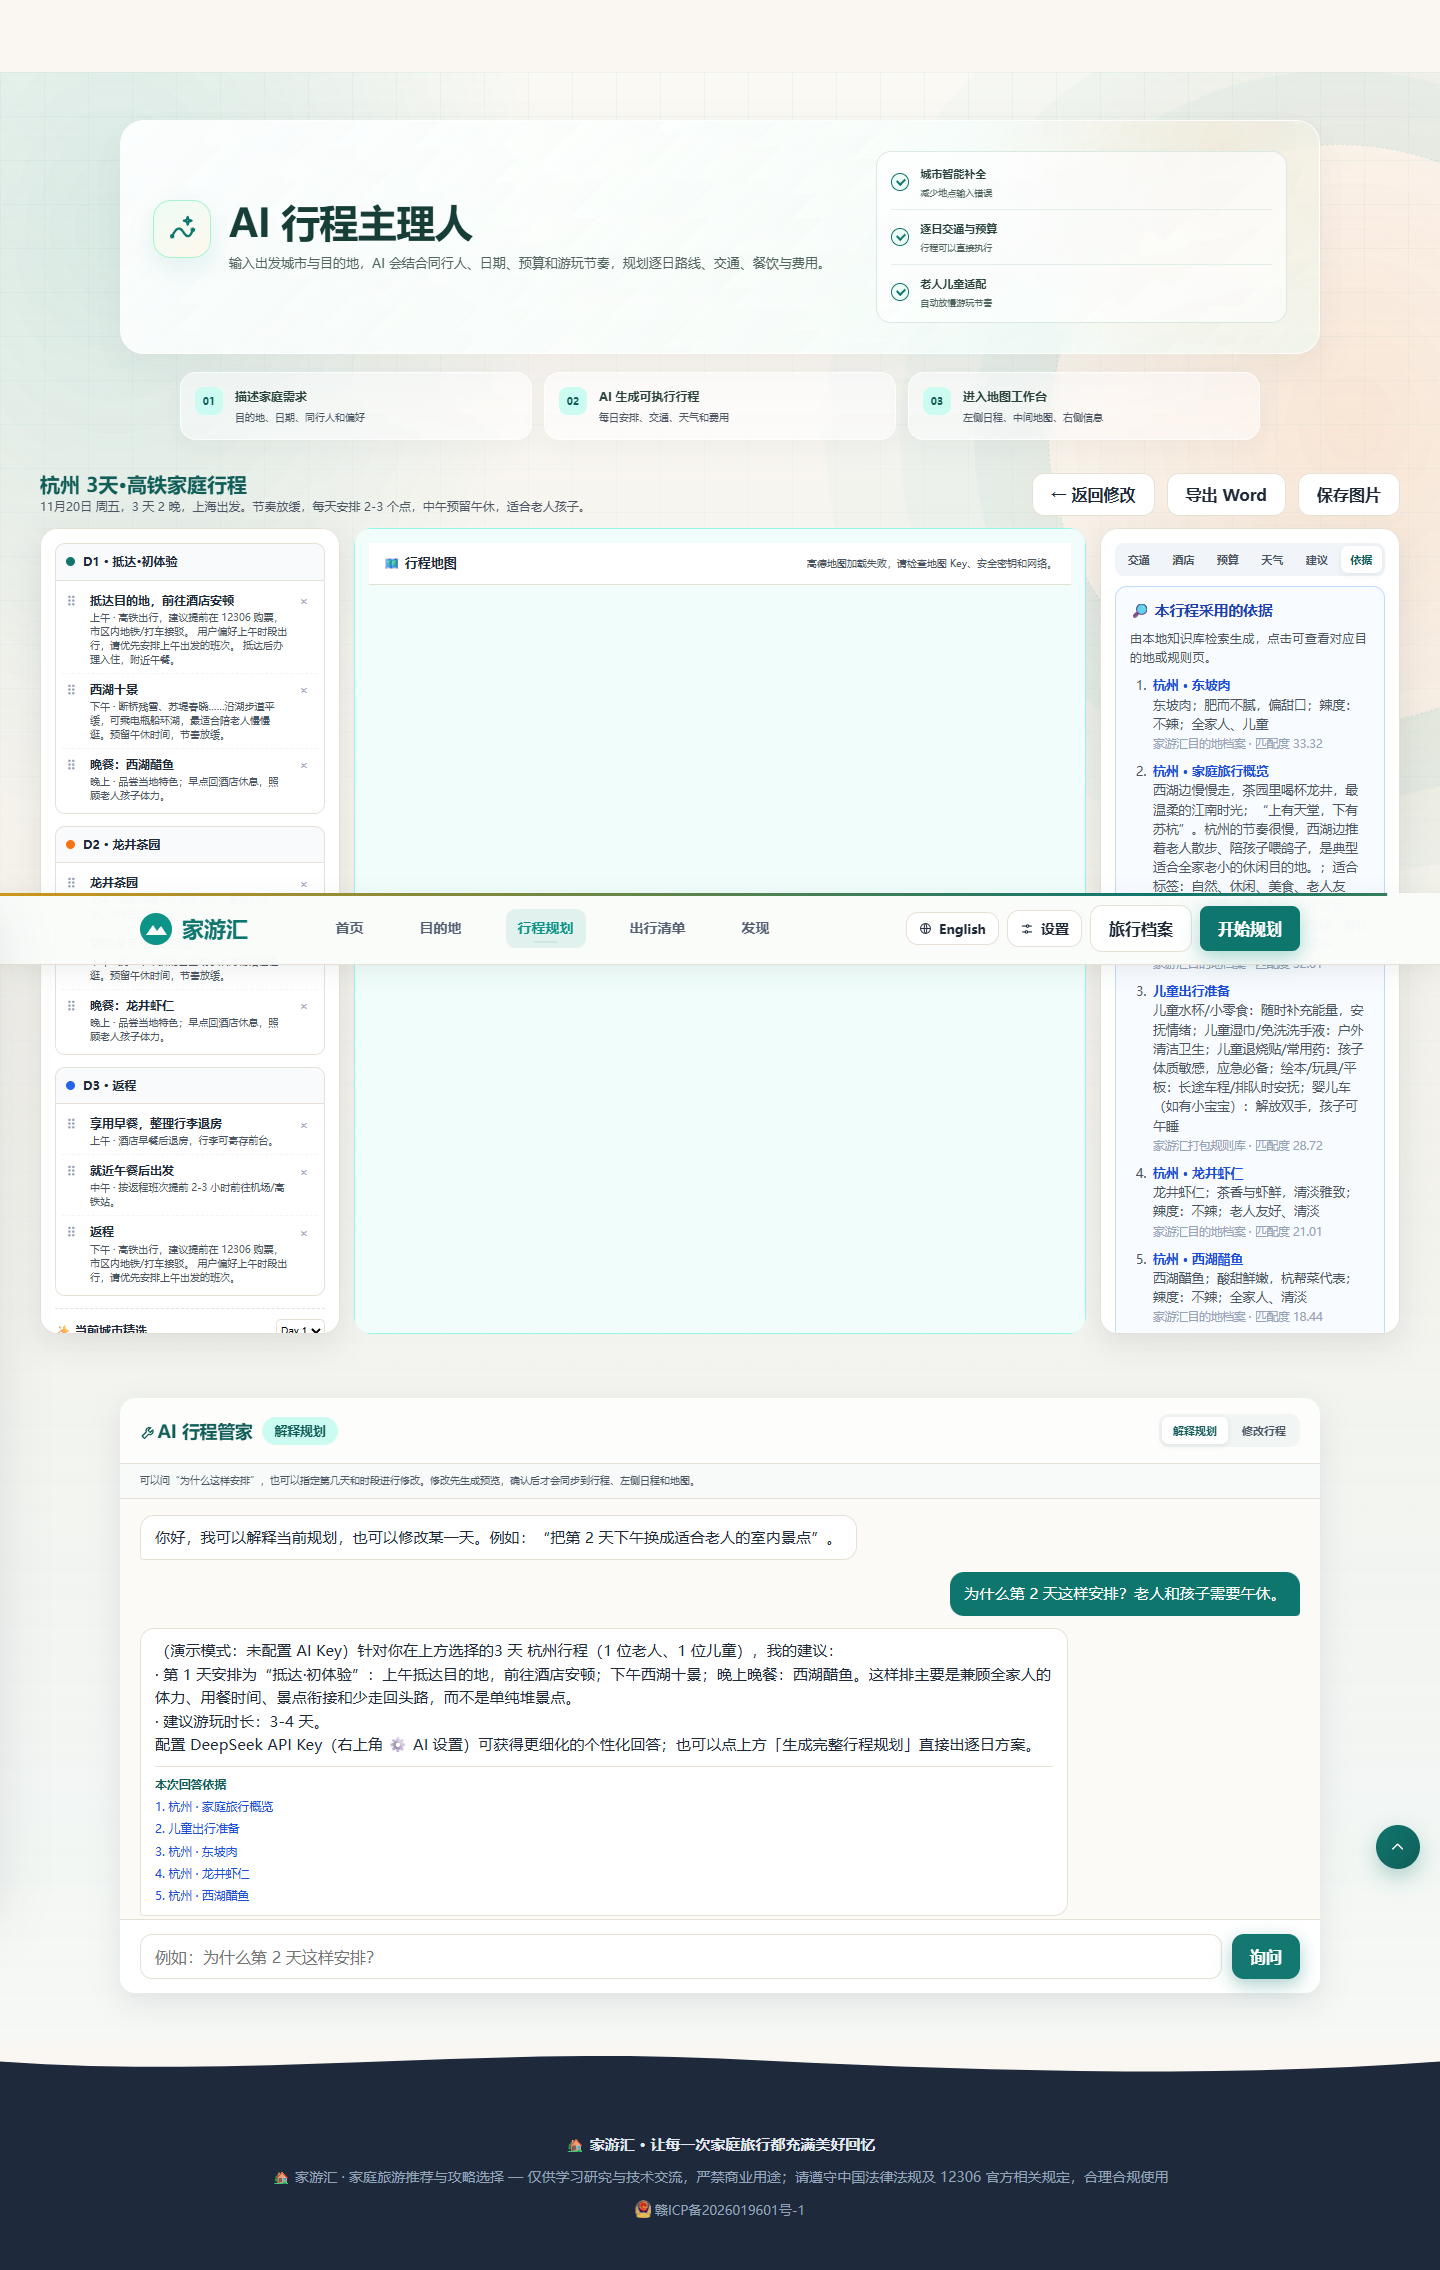
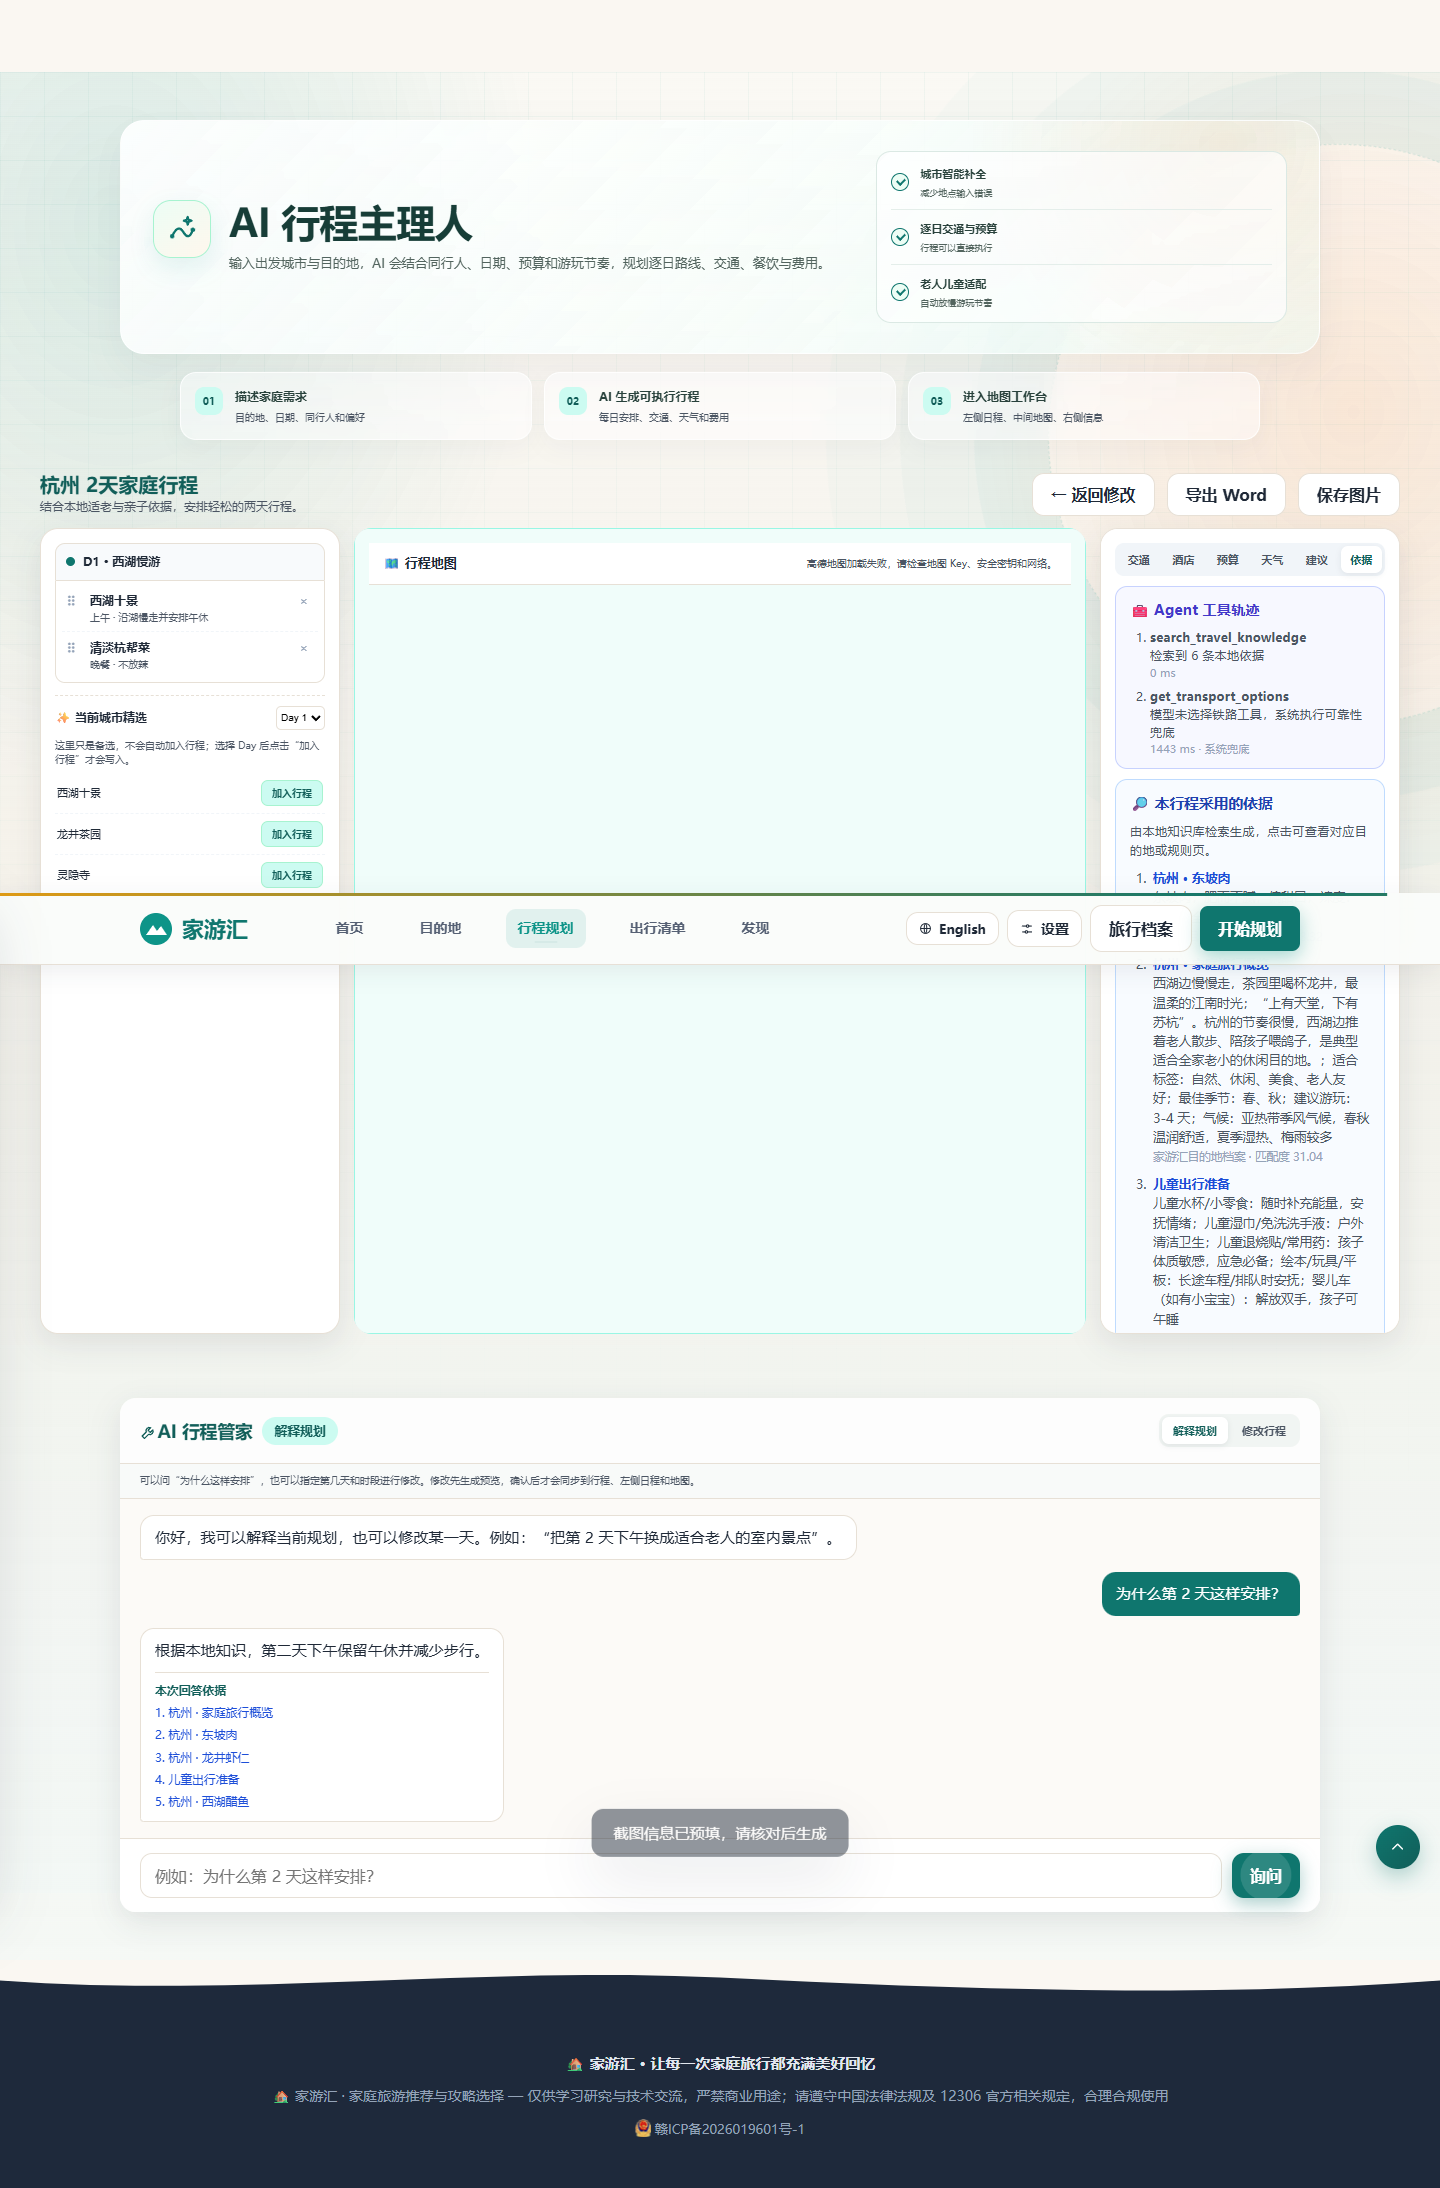
test: harden deployment and final QA

diff --git a/server.js b/server.js
@@ -10,7 +10,6 @@ const zlib = require('zlib');
 const crypto = require('crypto');
 const fs = require('fs');
 const path = require('path');
-const url = require('url');
 const ai = require('./lib/ai');
 const rec = require('./lib/recommend');
 const planner = require('./lib/planner');
@@ -604,12 +603,12 @@ async function handleApi(req, res, pathname) {
   // GET /api/rag/search —— 本地知识检索与可点击依据（用于调试和评委核验）
   if (pathname === '/api/rag/search' && req.method === 'GET') {
     if (!allowCheap(req)) return sendJson(res, 429, { error: MSG(reqLang(req)).rateLimited });
-    const q = url.parse(req.url, true).query;
-    const query = String(q.q || '').trim();
+    const q = new URL(req.url, 'http://localhost').searchParams;
+    const query = String(q.get('q') || '').trim();
     if (!query) return sendJson(res, 400, { error: reqLang(req) === 'en' ? 'Please enter a search query' : '请输入检索内容' });
     const citations = rag.publicCitations(rag.retrieve(query, {
-      destinationId: String(q.destinationId || '').trim(),
-      limit: Number(q.limit) || 6
+      destinationId: String(q.get('destinationId') || '').trim(),
+      limit: Number(q.get('limit')) || 6
     }));
     return sendJson(res, 200, {
       query,
@@ -642,8 +641,8 @@ async function handleApi(req, res, pathname) {
 
   // GET /api/travel-search?q=xxx —— 本地无结果时使用 Tavily 免费额度补充全网文旅文章
   if (pathname === '/api/travel-search' && req.method === 'GET') {
-    const q = url.parse(req.url, true).query;
-    const keyword = String(q.q || '').trim();
+    const q = new URL(req.url, 'http://localhost').searchParams;
+    const keyword = String(q.get('q') || '').trim();
     if (!keyword) return sendJson(res, 400, { enabled: travelSearch.isEnabled(), error: reqLang(req) === 'en' ? 'Please enter a search keyword' : '请输入搜索关键词' });
     if (!allowTravelSearch(req)) {
       return sendJson(res, 429, { enabled: travelSearch.isEnabled(), error: reqLang(req) === 'en' ? 'Too many web searches — please try again later' : '免费全网搜索次数过多，请稍后再试' });
@@ -804,7 +803,11 @@ async function handleApi(req, res, pathname) {
           const data = await trainPromise;
           return {
             summary: `已获取 ${(data && data.outbound || []).length} 趟去程和 ${(data && data.inbound || []).length} 趟返程参考车次`,
-            rail: data
+            rail: data ? {
+              outbound: (data.outbound || []).slice(0, 6),
+              inbound: (data.inbound || []).slice(0, 6),
+              display: data.display
+            } : null
           };
         }
         if (name === 'get_weather_forecast') {
@@ -1044,8 +1047,8 @@ async function handleApi(req, res, pathname) {
   // GET /api/job?id=xxx —— 轮询后台任务结果（仅提交者本人可读；重启后仍可从落盘结果取回）
   if (pathname === '/api/job' && req.method === 'GET') {
     if (!allowCheap(req)) return sendJson(res, 429, { error: MSG(reqLang(req)).rateLimited });
-    const q = url.parse(req.url, true).query;
-    const id = String(q.id || '');
+    const q = new URL(req.url, 'http://localhost').searchParams;
+    const id = String(q.get('id') || '');
     const job = jobs.get(id) || loadJobFromDisk(id);
     if (!job || (job.owner && job.owner !== clientIp(req))) return sendJson(res, 404, { error: MSG(reqLang(req)).jobGone });
     return sendJson(res, 200, { jobId: id, status: job.status, result: job.result || null, error: job.error || null, progress: job.progress || null });
@@ -1054,8 +1057,8 @@ async function handleApi(req, res, pathname) {
   // GET /api/weather?id=xxx —— 目的地未来 15 天天气预报（出网接口，单独限流）
   if (pathname === '/api/weather' && req.method === 'GET') {
     if (!allowOutbound(req)) return sendJson(res, 429, { error: MSG(reqLang(req)).rateLimited });
-    const q = url.parse(req.url, true).query;
-    const dest = destinations.find((d) => d.id === String(q.id || ''));
+    const q = new URL(req.url, 'http://localhost').searchParams;
+    const dest = destinations.find((d) => d.id === String(q.get('id') || ''));
     if (!dest || !dest.lat) return sendJson(res, 400, { error: MSG(reqLang(req)).noCoord });
     try {
       const data = await weather.getForecast(dest);
@@ -1147,7 +1150,7 @@ const server = http.createServer(async (req, res) => {
   try {
     let pathname;
     try {
-      pathname = decodeURIComponent(url.parse(req.url).pathname || '/');
+      pathname = decodeURIComponent(new URL(req.url, 'http://localhost').pathname || '/');
     } catch {
       return sendJson(res, 400, { error: MSG(reqLang(req)).badPath });
     }

diff --git a/lib/ai.js b/lib/ai.js
@@ -319,7 +319,6 @@ function buildBody(settings, messages, options = {}) {
   }
   if (stream) {
     body.stream = true;
-    body.stream_options = { include_usage: true };
   }
   if (isDeepSeek(settings) && thinking) body.thinking = { type: thinking };
   return body;

diff --git a/lib/agent.js b/lib/agent.js
@@ -1,4 +1,5 @@
 'use strict';
+// @ts-check
 /**
  * 最小工具调用循环：模型选择白名单工具，服务端校验参数并执行，再把结果回填给模型。
  * 设最大轮次和工具数量上限，避免模型在异常情况下无限规划。

diff --git a/lib/rag.js b/lib/rag.js
@@ -1,4 +1,5 @@
 'use strict';
+// @ts-check
 /**
  * 轻量旅行知识检索：把目的地与打包规则切成可引用的片段，使用字符 bigram BM25。
  * 目标是可解释的本地召回，不引入向量库或运行时依赖。

diff --git a/docs/AI升级验收记录.md b/docs/AI升级验收记录.md
@@ -1,0 +1,61 @@
+# 家游汇 AI 升级验收记录
+
+> 验收日期：2026-11-04  
+> 分支：`dev-test-opt`  
+> 范围：RAG、Function Calling、SSE、多模态预填、作品包与比赛材料
+
+## 自动化测试
+
+| 项目 | 结果 |
+| --- | --- |
+| `npm test` | 35/35 通过 |
+| `npm run check` | 58 个 JavaScript 文件语法通过 |
+| 服务端 Mock Agent | 工具选择、白名单、回填、最终 JSON 闭环通过 |
+| 浏览器 + Mock AI | 工具轨迹、真实 SSE 分支、截图预填三链路通过 |
+| AI 客户端 | DeepSeek 参数、工具调用、拆分 UTF-8 中文的 SSE 流通过 |
+| 安全边界 | 路径穿越、畸形路径、未知工具、图片格式、请求体上限通过 |
+| 重启恢复 | 已完成任务在服务重启后仍可取回 |
+
+## 浏览器回归
+
+使用 Edge 和本地 Node.js 服务完成：
+
+| 检查 | 结果 |
+| --- | --- |
+| 上海 → 杭州 3 天家庭行程 | 通过，生成 3 天日程 |
+| 12306 车次与票价 | 通过 |
+| RAG 依据页签 | 通过，返回 7 条可见来源 |
+| AI 管家 SSE | 通过，逐字回答并附 5 条引用 |
+| 截图导入无 Key 边界 | 通过，明确提示配置 AI Key |
+| 桌面 1440px | 无横向溢出、无脚本错误 |
+| 手机 390px | 无横向溢出、表单可见 |
+| 英文切换 | 通过 |
+| 长辈模式 | 通过 |
+
+证据截图：[`08-ai-evidence.png`](screenshots/08-ai-evidence.png)。
+
+## 并发冒烟
+
+- 80 个混合静态/API 请求：80/80 成功。
+- 本地 P50：59.1 ms；P95：76.6 ms；最大：77 ms。
+- 12 个 SSE 并发降级请求：12/12 完成。
+
+该结果只代表本地测试，不作为生产性能承诺。
+
+## 作品包
+
+- 技术文档：25 页，低于官方 30 页上限。
+- 作品介绍文档：13 页。
+- 发布 ZIP：包含 500+ 个条目。
+- ZIP 内无 `config.local.json`、`.env`、私钥或 API Key。
+- 从 ZIP 重新解压后的源码再次通过 35 项测试、58 个 JS 文件语法检查和启动冒烟。
+
+## 仍需真实环境完成
+
+1. 使用正式 DeepSeek Key 验证模型实际工具选择。
+2. 验证真实 `reasoning_content` 流式输出。
+3. 验证 `deepseek-flash` 对真实攻略截图的识别和表单预填。
+4. 在正式域名复测高德地图 Key 白名单。
+5. 在 Nginx 后确认 SSE 不被缓冲。
+
+上线步骤见 [`Ubuntu上线前检查.md`](Ubuntu上线前检查.md)。

diff --git a/docs/三天冲刺交付清单.md b/docs/三天冲刺交付清单.md
@@ -125,6 +125,7 @@ npm run check
 - Node 测试：35 项通过。
 - 语法检查：58 个 JavaScript 文件通过。
 - 本地模拟：档案测试页 5 条记录、会员意向可记录；上海 → 杭州 3 天规则行程可生成并返回 12306 车次、RAG 依据和流式回答。
+- 本地并发：80 个混合请求全部成功，P95 76.6 ms；12 个 SSE 并发降级全部完成。
 - 本地地图在无头浏览器中因高德 Key 域名限制加载失败，必须在正式域名复测，不能据此判定线上一定故障。
 
 新增功能至少补齐以下测试：

diff --git a/README.md b/README.md
@@ -82,6 +82,8 @@
 
 > 部署到 Ubuntu 前按 [`docs/Ubuntu上线前检查.md`](docs/Ubuntu上线前检查.md) 完成真实 Key、SSE 代理、地图域名和回滚检查。
 
+> 本次 AI 升级的自动化、浏览器、并发和作品包结果见 [`docs/AI升级验收记录.md`](docs/AI升级验收记录.md)。
+
 ## 功能截图
 
 | 首页 | 目的地库 |
